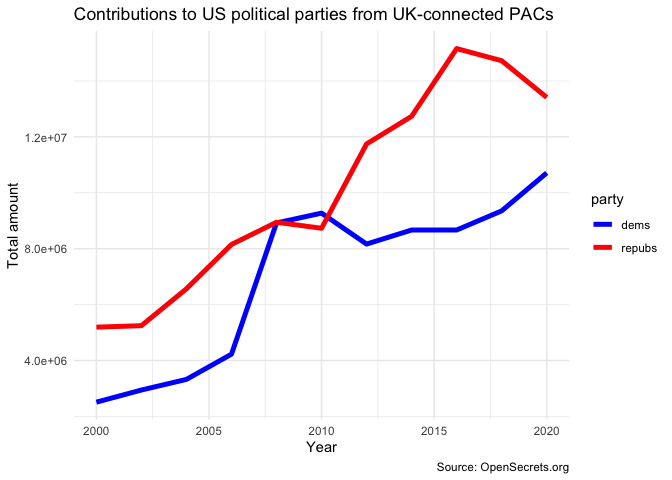
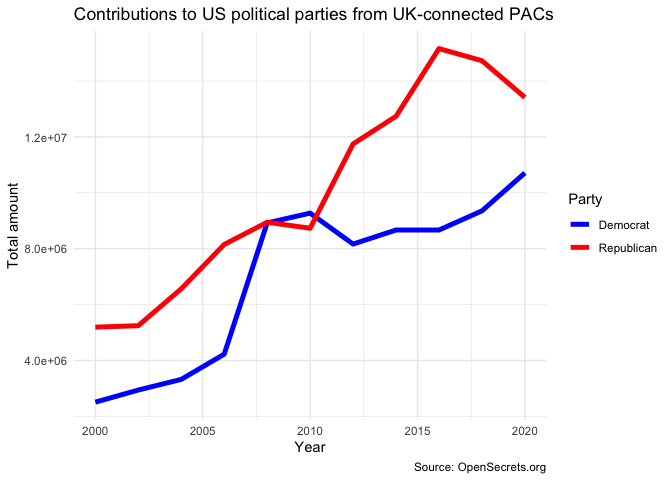
Finished all but the interpretation for question 3!

diff --git a/homework-02.md b/homework-02.md
@@ -10,7 +10,7 @@ edibnb %>%
   group_by(neighbourhood) %>%
   mutate(median_review = median(review_scores_rating, na.rm = TRUE)) %>%
   ungroup() %>%
-  mutate(neighbourhood = fct_reorder(.f = neighbourhood, .x = median_review, .fun = median)) %>%
+  mutate(neighbourhood = fct_reorder(.f = neighbourhood, .x = median_review)) %>%
   ggplot(data = subset(., !is.na(neighbourhood)),
          mapping = aes(x = review_scores_rating, 
                        y = neighbourhood,
@@ -61,70 +61,69 @@ broader trend across Scottish cities, or specific to Edinburgh.
 3.  **Foreign Connected PACs.**
 
 ``` r
-# get a list of files with "Foreign Connected PAC" in their names
-list_of_files <- dir_ls(path = "data", regexp = "Foreign Connected PAC")
-
-# read all files and row bind them
-# keeping track of the file name in a new column called year
-pac <- read_csv(list_of_files, id = "year")
-```
-
-    ## Rows: 2184 Columns: 6
-    ## ── Column specification ────────────────────────────────────────────────────────
-    ## Delimiter: ","
-    ## chr (5): PAC Name (Affiliate), Country of Origin/Parent Company, Total, Dems...
-    ## 
-    ## ℹ Use `spec()` to retrieve the full column specification for this data.
-    ## ℹ Specify the column types or set `show_col_types = FALSE` to quiet this message.
-
-``` r
-#clean data and pivot_longer the dems/repubs variables
-pac2 <- pac %>%
-  clean_names() %>%
-  separate(col = country_of_origin_parent_company,
-           into = c("country_of_origin", "parent_company"),
-           sep = '/') %>%
-  separate(col = year,
-           into = c("remove","year"),
-           sep = "-") %>%
-  select(-remove) %>%
-  mutate(year = as.numeric(str_remove(string = year,
-                           pattern = ".csv"))) %>%
-  pivot_longer(cols = c("dems", "repubs"),
-               names_to = "party",
-               values_to = "contribution_amount") %>%
-  mutate(contribution_amount = as.numeric(str_remove(string = contribution_amount,
-                                                     pattern = "\\$")),
-         total = as.numeric(str_remove(string = total,
-                                       pattern = "\\$")))
-```
-
-    ## Warning: Expected 2 pieces. Additional pieces discarded in 16 rows [125, 349,
-    ## 552, 732, 910, 930, 1124, 1149, 1357, 1386, 1595, 1623, 1845, 1874, 2083, 2106].
-
-``` r
-test <- pac2 %>%
+#recreate visualization for contributions from UK companies
+cleaned_pac %>%
+  filter(country_of_origin == "UK") %>%
   group_by(year, party) %>%
-  summarize(totalsum = sum(contribution_amount))
+  summarize(totalsum = sum(contribution_amount)) %>%
+  mutate(party = ifelse(party == "dems", "Democrat", "Republican"))  %>%
+  ungroup() %>%
+  group_by(party) %>%
+  ggplot(mapping = aes(x = year, y = totalsum, color = party), na.rm = TRUE) +
+  geom_line(size = 1.5) +
+  scale_color_manual(values = c("blue", "red")) +
+  scale_x_continuous(name = "Year", 
+                     breaks = seq(2000, 2020, 4)) +
+  scale_y_continuous(name = "Total Amount",
+                     labels = label_number(prefix = "$",
+                                           suffix = "M", 
+                                           scale = 1e-6)) +
+  theme_minimal() +
+  theme(axis.title.y = element_text(hjust = 0),
+        axis.title.x = element_text(hjust = 0),
+        legend.justification=c(1,0), 
+        legend.position=c(1,0)) +
+  labs(title = "Contributions to US political parties from UK-connected PACs",
+       color = "Party",
+       caption = "Source: OpenSecrets.org")
 ```
 
     ## `summarise()` has grouped output by 'year'. You can override using the
     ## `.groups` argument.
 
+![](homework-02_files/figure-gfm/exercise-3-visualizations-1.png)<!-- -->
+
 ``` r
-#recreate visualization
-test %>%
+#create similar visualization for contributions from another country (Germany)
+cleaned_pac %>%
+  filter(country_of_origin == "Germany") %>%
+  group_by(year, party) %>%
+  summarize(totalsum = sum(contribution_amount)) %>%
+  mutate(party = ifelse(party == "dems", "Democrat", "Republican"))  %>%
+  ungroup() %>%
   group_by(party) %>%
-  ggplot(mapping = aes(x = year, y = totalsum, color = party), na.rm = TRUE)+
-  geom_line(size = 1.75)+
-  scale_color_manual(values = c("blue", "red"))+
-  theme_minimal()+
-  labs(title = "Contributions to US political parties from UK-connected PACs",
-       x = "Year",
-       y = "Total amount",
+  ggplot(mapping = aes(x = year, y = totalsum, color = party), na.rm = TRUE) +
+  geom_line(size = 1.5) +
+  scale_color_manual(values = c("blue", "red")) +
+  scale_x_continuous(name = "Year", 
+                     breaks = seq(2000, 2020, 4)) +
+  scale_y_continuous(name = "Total Amount",
+                     labels = label_number(prefix = "$",
+                                           suffix = "M", 
+                                           scale = 1e-6)) +
+  theme_minimal() +
+  theme(axis.title.y = element_text(hjust = 0),
+        axis.title.x = element_text(hjust = 0),
+        legend.justification=c(1,0), 
+        legend.position=c(1,0)) +
+  labs(title = "Contributions to US political parties from Germany-connected PACs",
+       color = "Party",
        caption = "Source: OpenSecrets.org")
 ```
 
-![](homework-02_files/figure-gfm/load-pac-data-1.png)<!-- -->
+    ## `summarise()` has grouped output by 'year'. You can override using the
+    ## `.groups` argument.
+
+![](homework-02_files/figure-gfm/exercise-3-visualizations-2.png)<!-- -->
 
 4.  **Hop on.**
